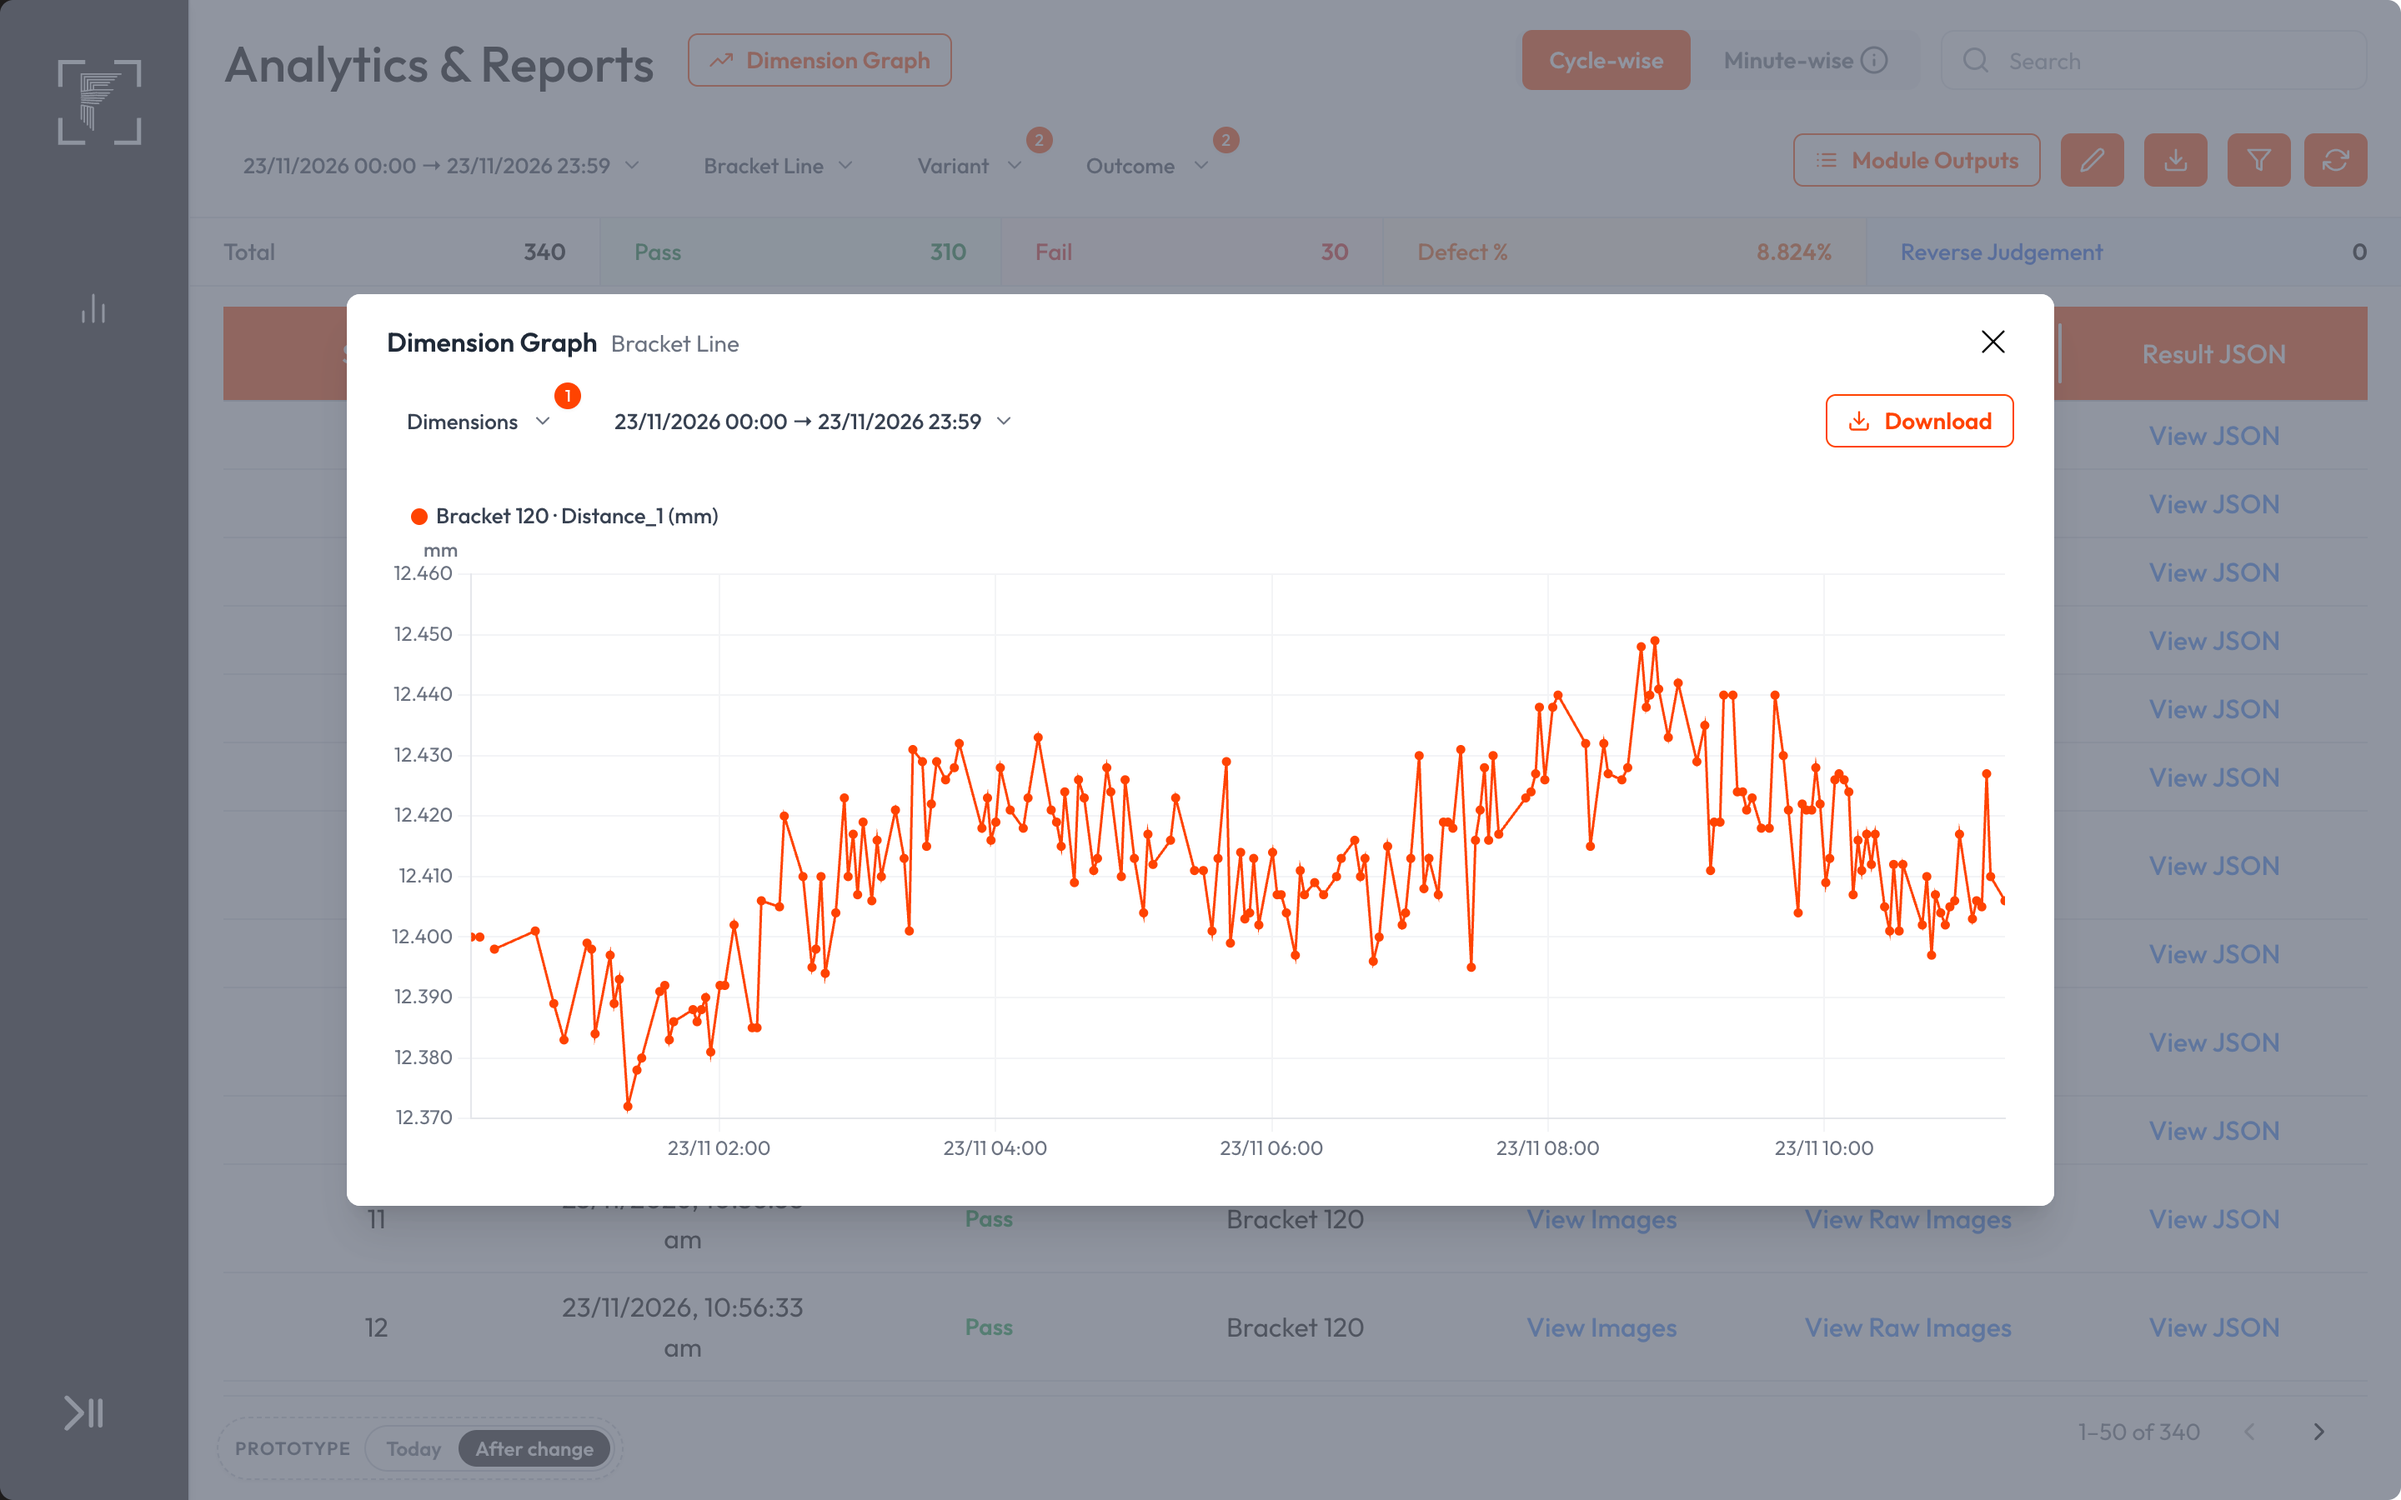
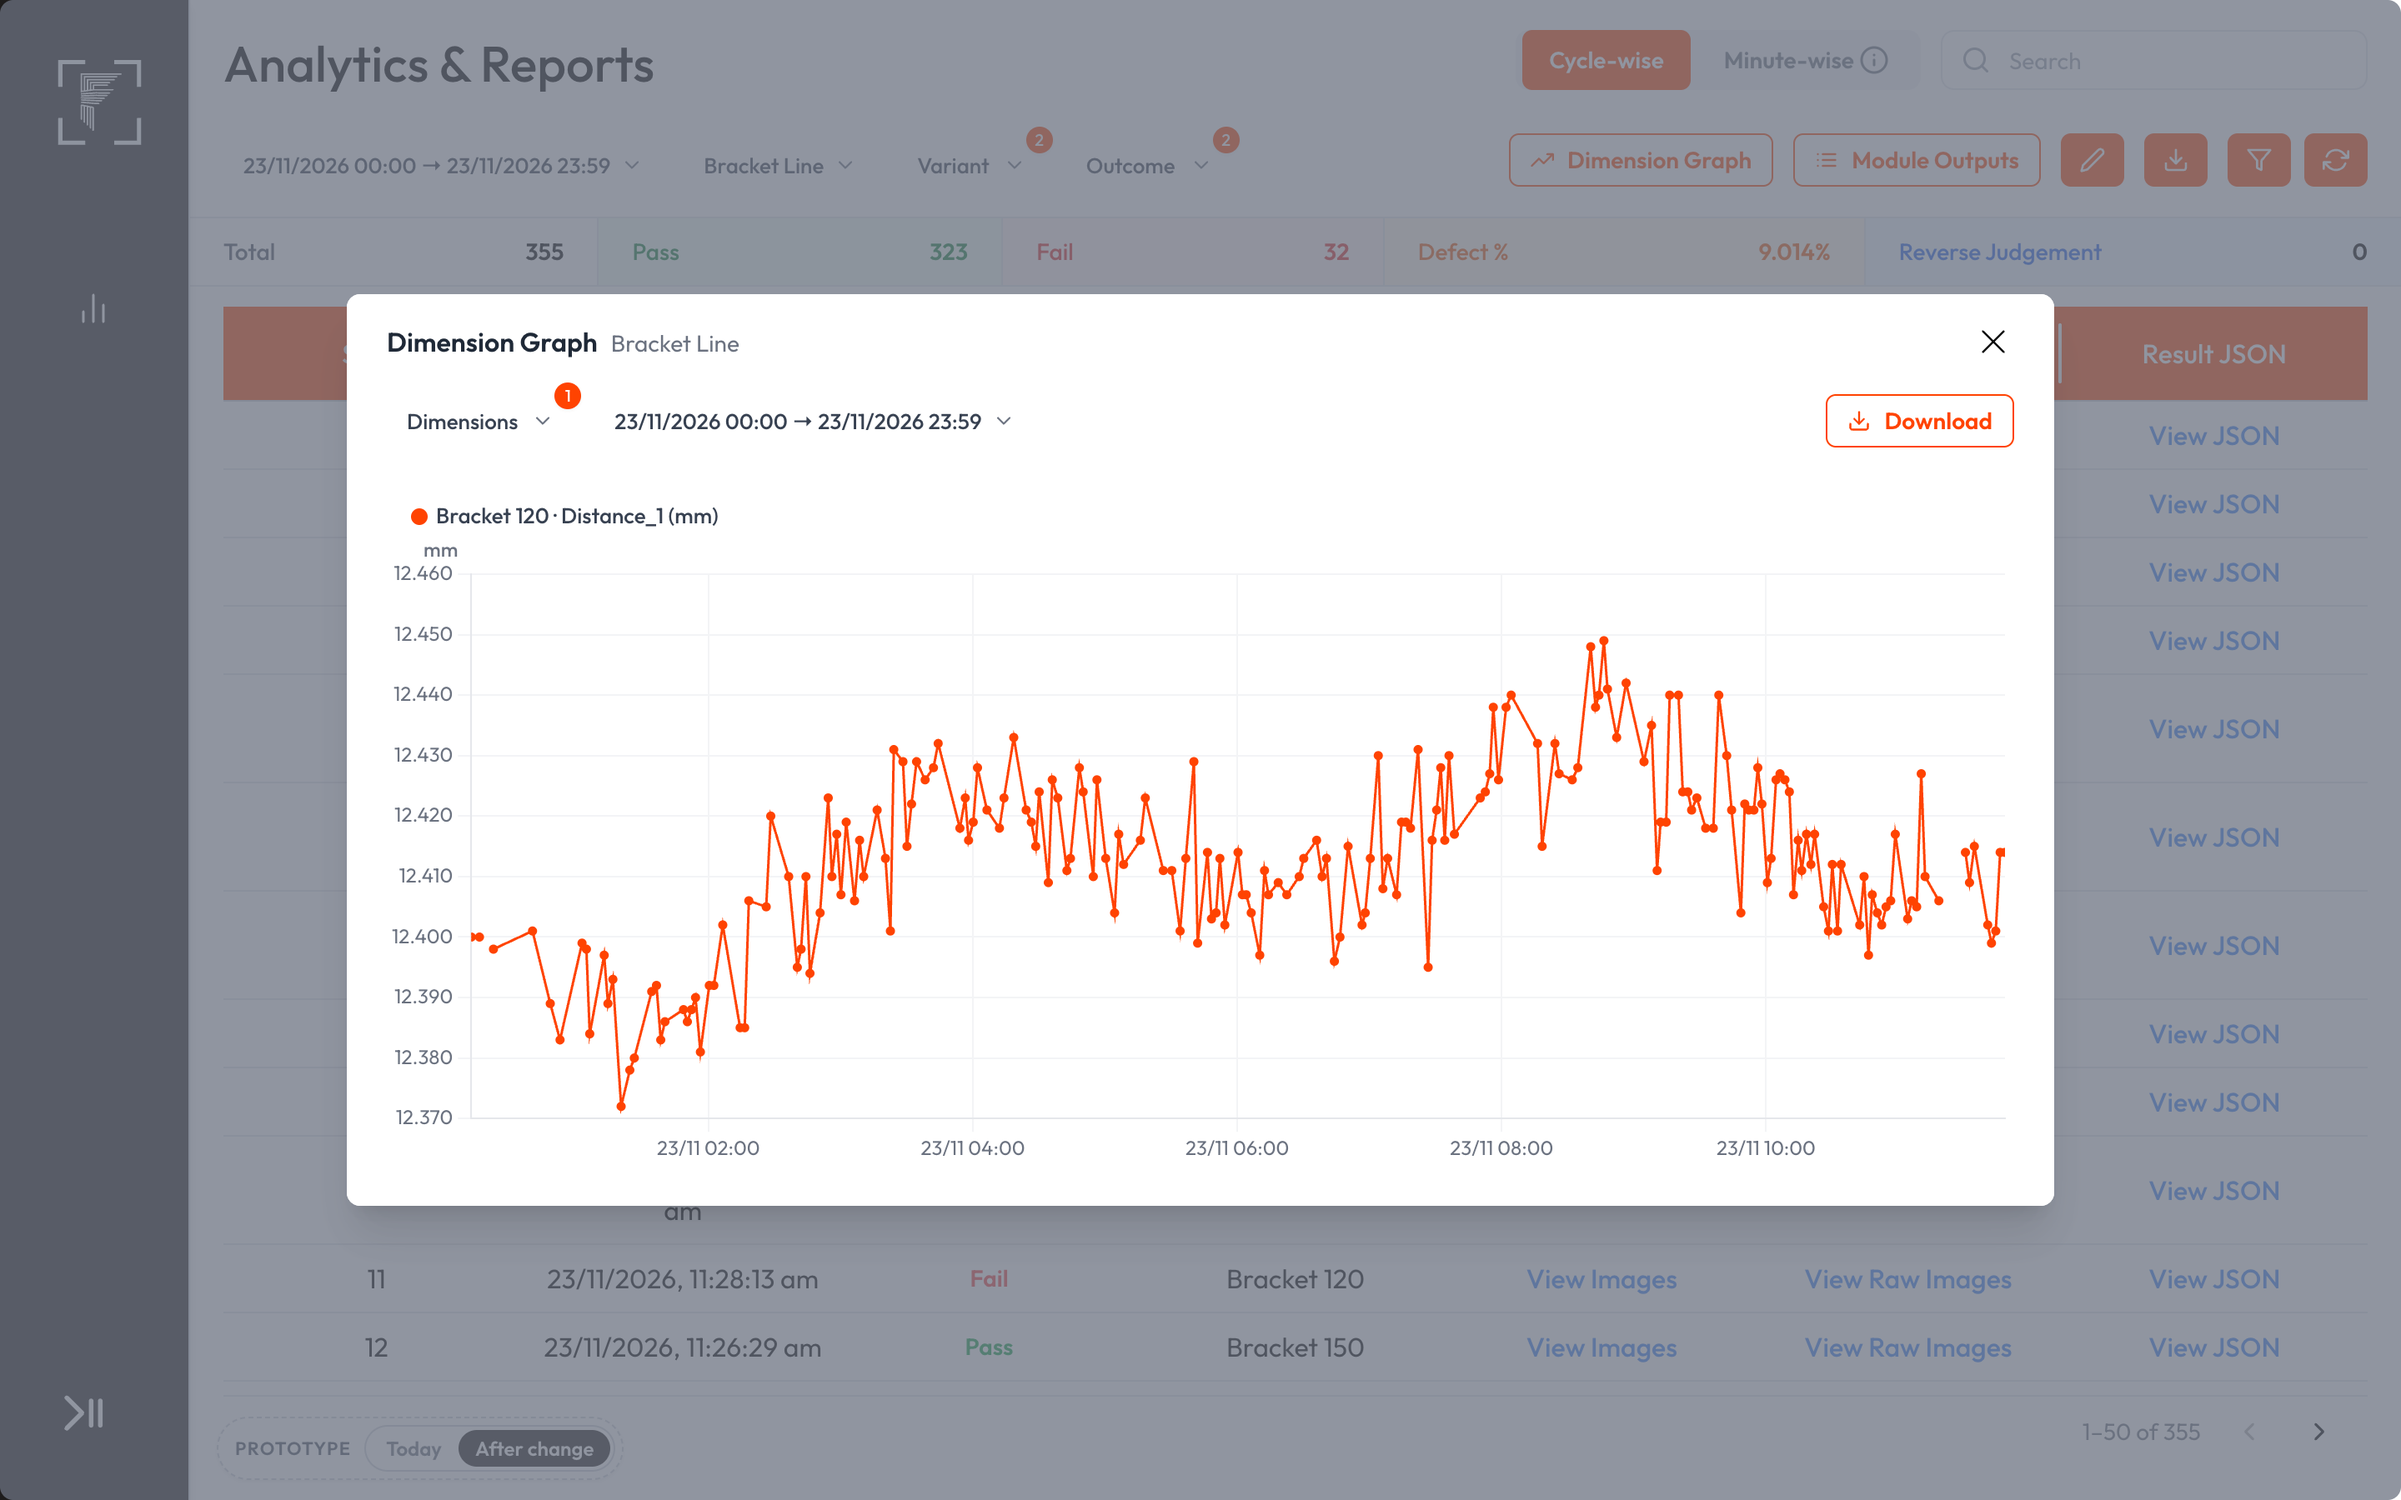
Move Dimension Graph button next to Module Outputs

diff --git a/reports.html b/reports.html
@@ -52,7 +52,7 @@ button:disabled{cursor:default}
 .heading .h1{font-size:30px;line-height:36px;font-weight:500;white-space:nowrap}
 .heading .hsub{display:flex;align-items:baseline;gap:8px;font-size:20px;line-height:28px;font-weight:500}
 /* The Heading's empty subcontent slot adds an 8px gap: pull the button back so it sits the title's 20px padding away. */
-.dgw{margin-left:-8px;margin-top:8px}
+.dgw[hidden]{display:none}
 .hr{display:flex;align-items:center;gap:12px;margin:8px 20px 0 0}
 .tabs{display:flex;align-items:center;height:36px;padding:4px;border-radius:8px;background:var(--g100)}
 .tabs button{display:flex;align-items:center;gap:4px;height:36px;padding:0 16px;border-radius:6px;font-size:14px;line-height:20px;font-weight:600;
@@ -289,9 +289,6 @@ td.empty{padding:8px 0;text-align:center;font-size:16px;color:var(--g600);backgr
   <header class="top">
     <div class="hl">
       <div class="heading"><div class="h1">Analytics &amp; Reports</div><div class="hsub"></div></div>
-      <div class="dgw" id="dgWrap" hidden>
-        <button type="button" class="obtn" id="dgBtn"><svg class="i i14"><use href="#i-trend"/></svg>Dimension Graph</button>
-      </div>
     </div>
     <div class="hr">
       <div class="tabs">
@@ -318,6 +315,7 @@ td.empty{padding:8px 0;text-align:center;font-size:16px;color:var(--g600);backgr
             <button type="button" class="chip" style="width:100px"><span class="t">Outcome</span><svg class="i"><use href="#i-down"/></svg><span class="badge">2</span></button>
           </div>
         </div>
+        <div class="tipw dgw" id="dgWrap" hidden><button type="button" class="obtn" id="dgBtn"><svg class="i i14"><use href="#i-trend"/></svg>Dimension Graph</button></div>
         <div class="tipw" id="moWrap"><button type="button" class="obtn" id="moBtn"><svg class="i i14"><use href="#i-list"/></svg>Module Outputs</button></div>
         <div class="tipw"><button type="button" class="ibtn" aria-label="Edit Table"><svg class="i"><use href="#i-edit2"/></svg></button><div class="tip">Edit Table</div></div>
         <div class="tipw"><button type="button" class="ibtn" id="pageDl" aria-label="Download"><svg class="i"><use href="#i-dl"/></svg></button><div class="tip">Download</div></div>
